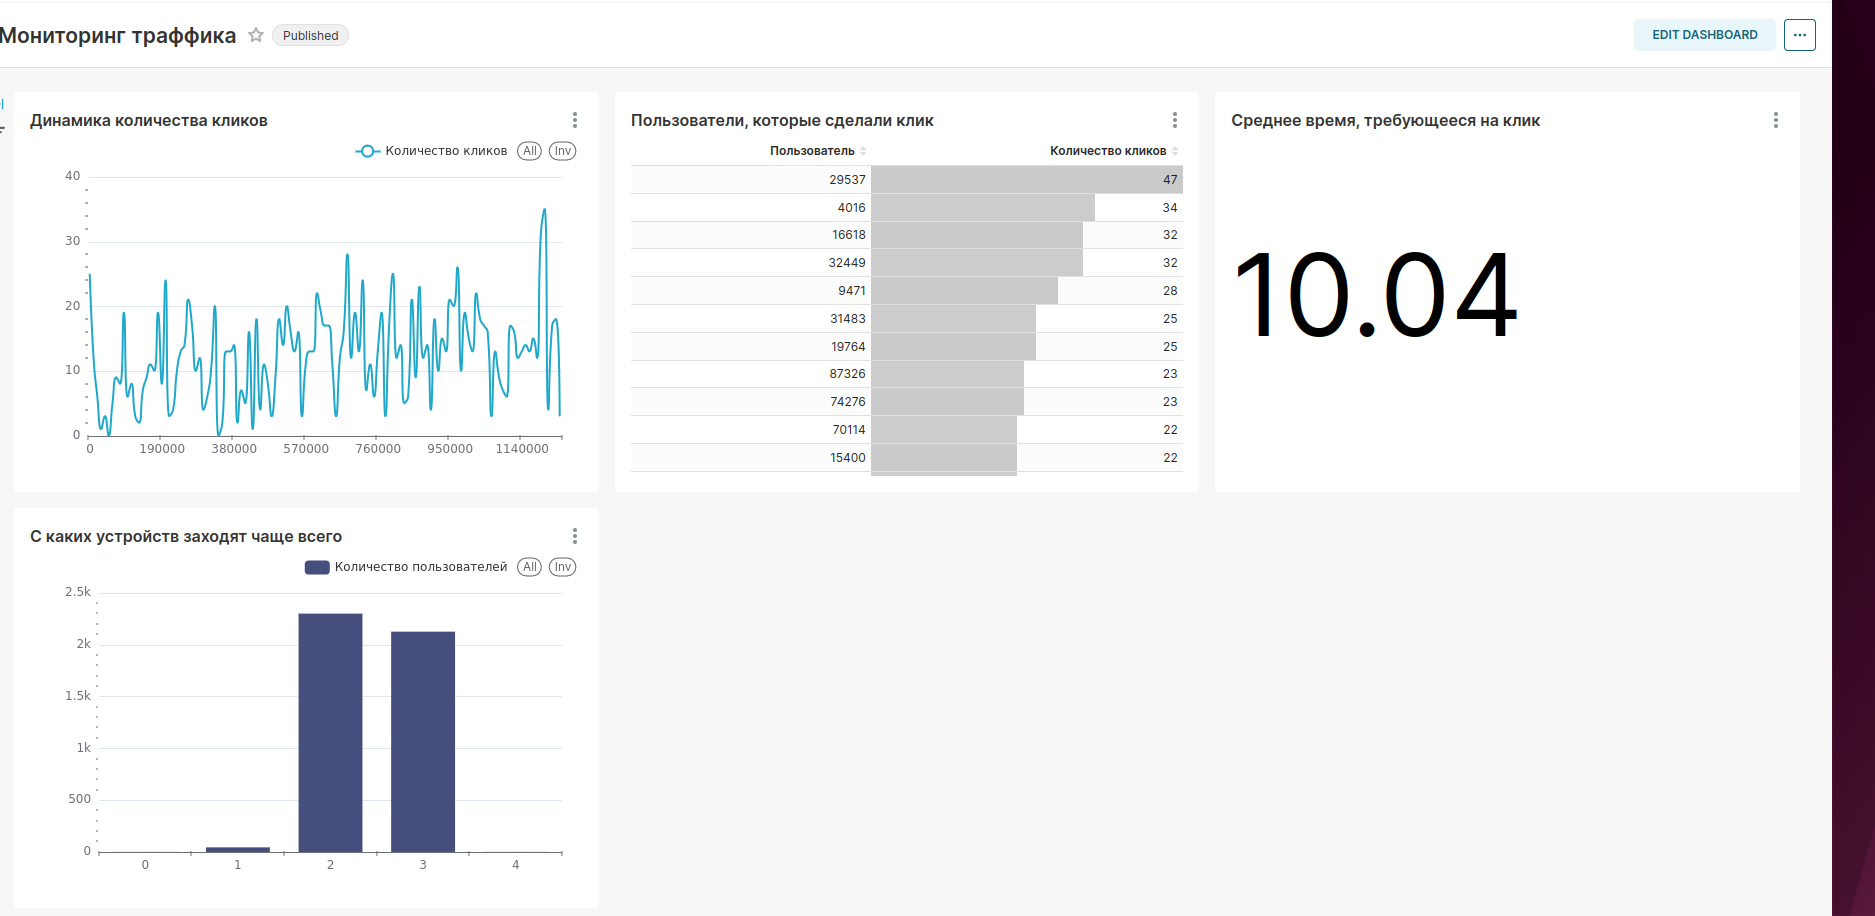
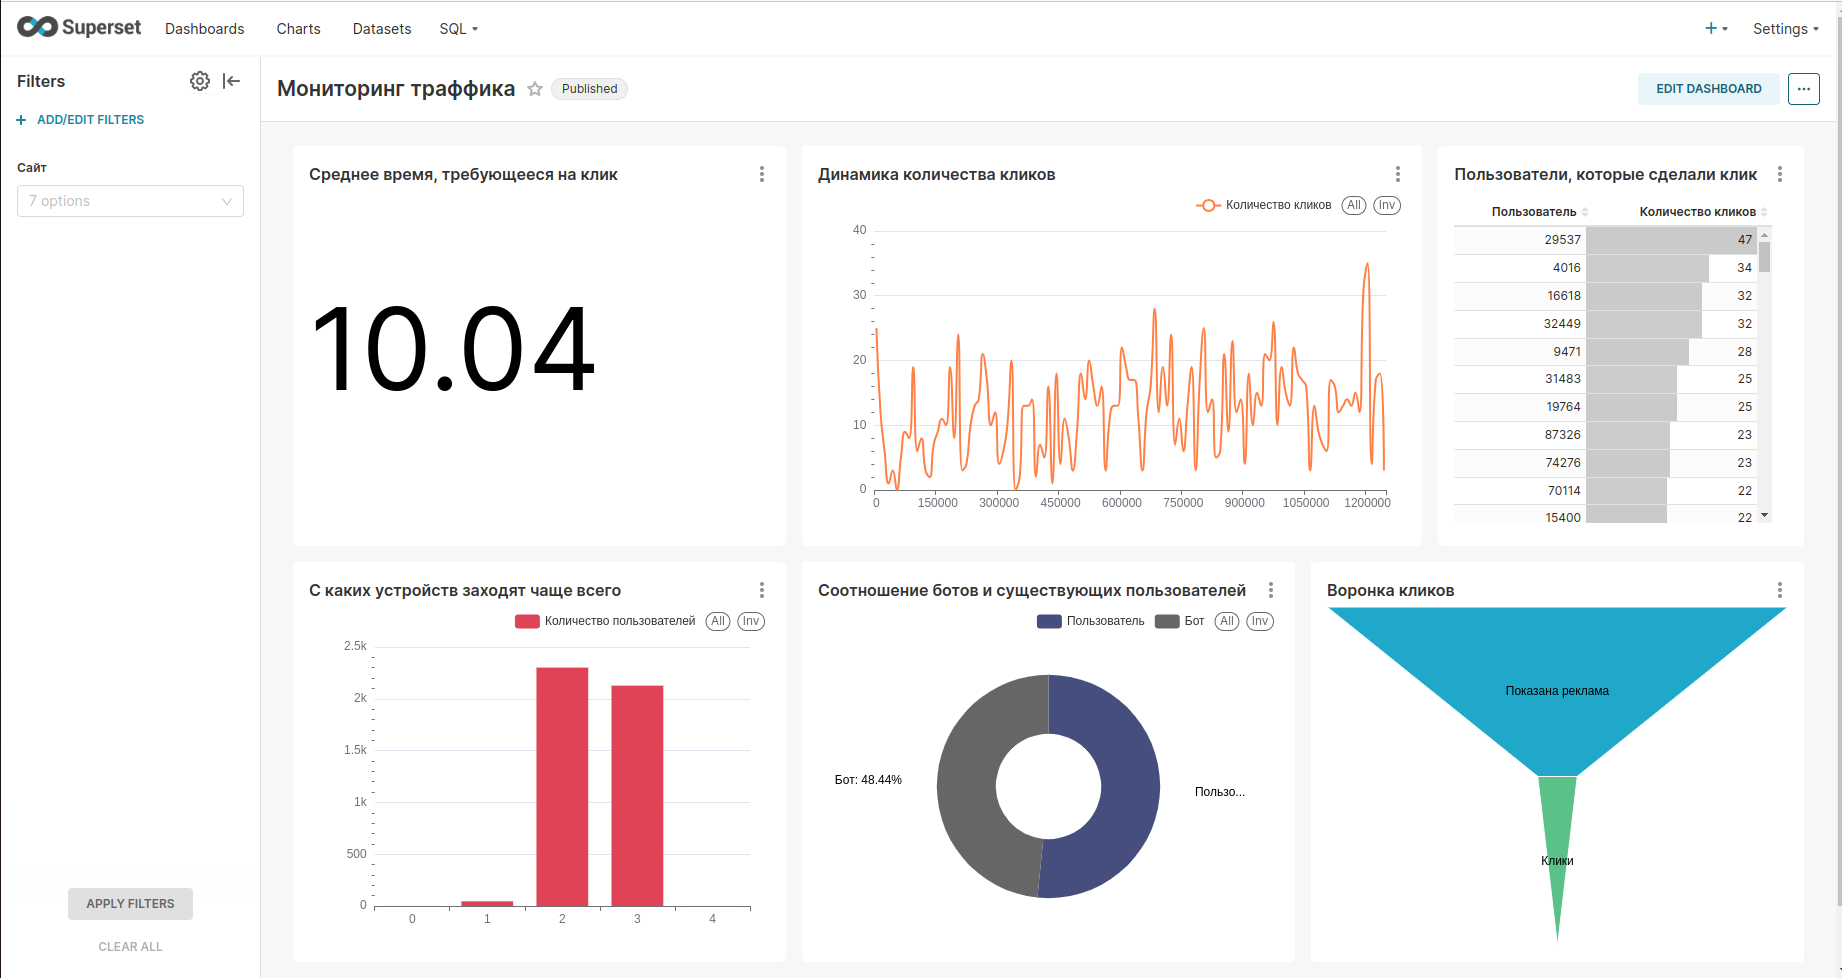
added README

diff --git a/README.md b/README.md
@@ -1,0 +1,17 @@
+#  Анализ трафика пользователей
+
+**Цель проекта:** По имеющемуся набору данных необходимо определить, проводилась ли накрутка пользоватей.
+
+Этапы и выводы исследования представлены в jupyter notebook в соответствующей директории.
+
+## Результаты
+
+Реализовано два DAG'a для предобработки данных и их классификации.
+Также построен дашборд для мониторинг траффика. 
+
+Запустить проект можно командой:
+    
+    sh bin/start_project.sh
+
+Дашборд со статистикой:
+![](./notebooks/img/dashboard.png)
